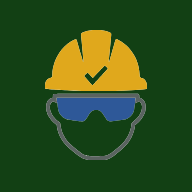
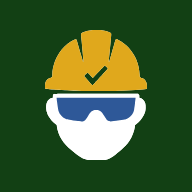
Ícone: rosto vira forma sólida branca (não mais contorno)
O rosto passa de um contorno (path com recorte interno) para uma forma
sólida preenchida de branco. As camadas foram reordenadas (fundo →
rosto → lentes → capacete) para as lentes azuis ficarem sobre o rosto
branco. Aplica-se às duas versões (normal e transparente); na
transparente o check segue verde.

Changed region(s): [[0.2188, 0.4688, 0.7812, 0.8438]]

diff --git a/service-worker.js b/service-worker.js
@@ -4,7 +4,7 @@
 // CONFIGURAÇÃO DO SERVICE WORKER - Definições de Cache
 // =========================================================================
 
-const CACHE_NAME = "gentehonesta-v158";
+const CACHE_NAME = "gentehonesta-v159";
 
 // CONFIGURAÇÃO DO SERVICE WORKER - Lista de Recursos Core para Cache Inicial
 const urlsToCache = [

diff --git a/CLAUDE.md b/CLAUDE.md
@@ -371,7 +371,7 @@ o ícone fica automaticamente centralizado com o texto. `.btn--text .material-sy
 
 **`text-decoration` não propaga de forma confiável para filhos de um flex container:** `.pro-card__meta-item--inactive` (rodapé do card de profissional, `proFooterHTML()` em `feed.js`) risca só o texto do método de pagamento indisponível, nunca o ícone — mas o `text-decoration: line-through` está no span do RÓTULO (`.pro-card__meta-item__label`), não em `.pro-card__meta-item--inactive` diretamente. Colocar o risco no item (que é `display: inline-flex`) e tentar excluir o ícone com `text-decoration: none` nele NÃO funciona no Chrome: como `.pro-card__meta-item` é um flex container, o ícone (item flex) é "blockificado" e o navegador ignora esse `none`, riscando o ícone mesmo assim. A solução é aplicar o risco direto no span do texto, nunca herdado de um ancestral flex.
 
-**Service Worker:** incrementar `CACHE_NAME` em `service-worker.js` a cada deploy com mudanças de cache. Versão atual: `gentehonesta-v158`. Os arquivos CSS e JS são atualizados automaticamente pelo Network-First; o incremento serve para forçar limpeza de caches antigos.
+**Service Worker:** incrementar `CACHE_NAME` em `service-worker.js` a cada deploy com mudanças de cache. Versão atual: `gentehonesta-v159`. Os arquivos CSS e JS são atualizados automaticamente pelo Network-First; o incremento serve para forçar limpeza de caches antigos.
 
 **Seção "Detalhes profissionais" (`#panel-prodetails`):** todas as subseções seguem o mesmo padrão visual
 (sem cards/fundos individuais) — "O que você faz?", "Suas Habilidades" e "Padrão de Serviços" são
